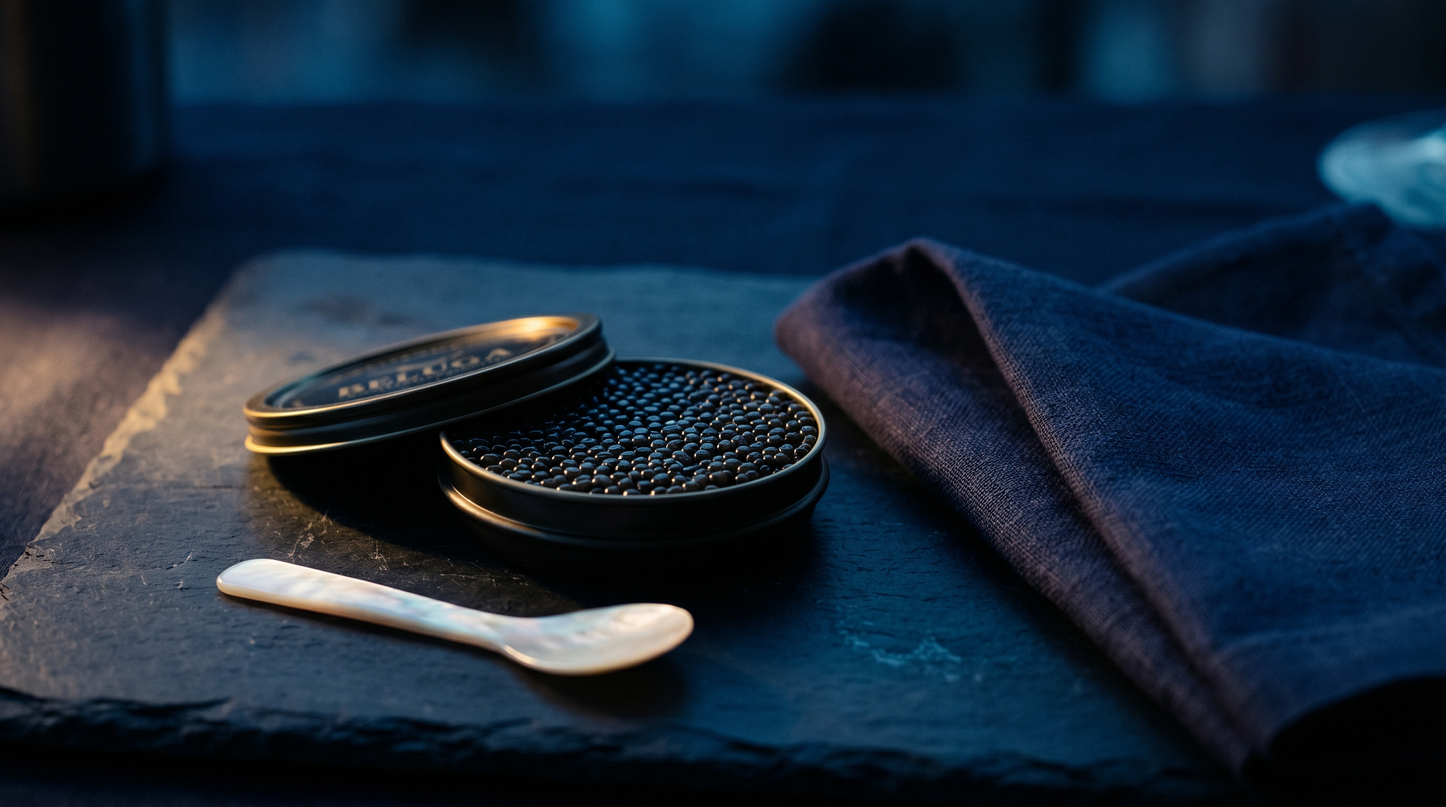
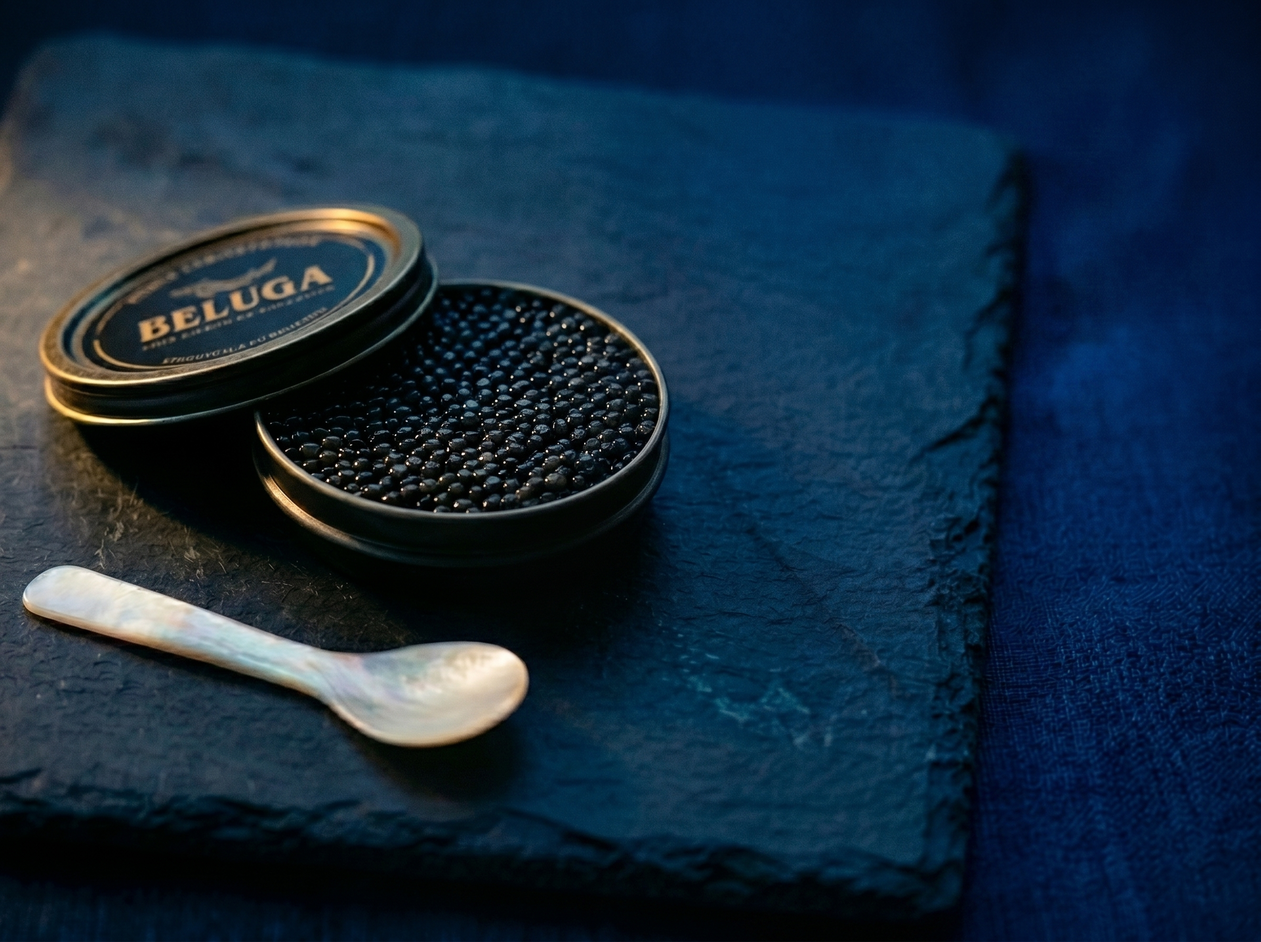
feat: replace caviar image with new 4:3 version using aspect-ratio and object-fit

diff --git a/blue-hour.html b/blue-hour.html
@@ -325,16 +325,17 @@
     .caviar-section {
       position: relative;
       width: 100%;
-      height: 500px;
+      aspect-ratio: 4 / 3;
       overflow: hidden;
       background-color: #0f1f3d;
+      line-height: 0;
     }
 
-    .caviar-bg {
-      position: absolute;
-      inset: 0;
-      background: url('blue-hour-caviar-service.jpeg') no-repeat left center/cover;
-      z-index: 1;
+    .caviar-img {
+      width: 100%;
+      height: 100%;
+      object-fit: cover;
+      object-position: left center;
     }
 
     /* Section: Menu / Experience */
@@ -647,9 +648,6 @@
       .concept-headline {
         font-size: 34px;
       }
-      .caviar-section {
-        height: 300px;
-      }
       .experience {
         padding: 80px 0 60px;
       }
@@ -736,7 +734,7 @@
   <!-- Section: Caviar Service Image -->
   <section class="caviar-section">
     <div class="grain"></div>
-    <div class="caviar-bg"></div>
+    <img src="blue-hour-caviar-service.jpeg" alt="Caviar Service" class="caviar-img">
   </section>
 
   <!-- Section: Menu / Experience -->

diff --git a/index.html b/index.html
@@ -325,16 +325,17 @@
     .caviar-section {
       position: relative;
       width: 100%;
-      height: 500px;
+      aspect-ratio: 4 / 3;
       overflow: hidden;
       background-color: #0f1f3d;
+      line-height: 0;
     }
 
-    .caviar-bg {
-      position: absolute;
-      inset: 0;
-      background: url('blue-hour-caviar-service.jpeg') no-repeat left center/cover;
-      z-index: 1;
+    .caviar-img {
+      width: 100%;
+      height: 100%;
+      object-fit: cover;
+      object-position: left center;
     }
 
     /* Section: Menu / Experience */
@@ -647,9 +648,6 @@
       .concept-headline {
         font-size: 34px;
       }
-      .caviar-section {
-        height: 300px;
-      }
       .experience {
         padding: 80px 0 60px;
       }
@@ -736,7 +734,7 @@
   <!-- Section: Caviar Service Image -->
   <section class="caviar-section">
     <div class="grain"></div>
-    <div class="caviar-bg"></div>
+    <img src="blue-hour-caviar-service.jpeg" alt="Caviar Service" class="caviar-img">
   </section>
 
   <!-- Section: Menu / Experience -->
